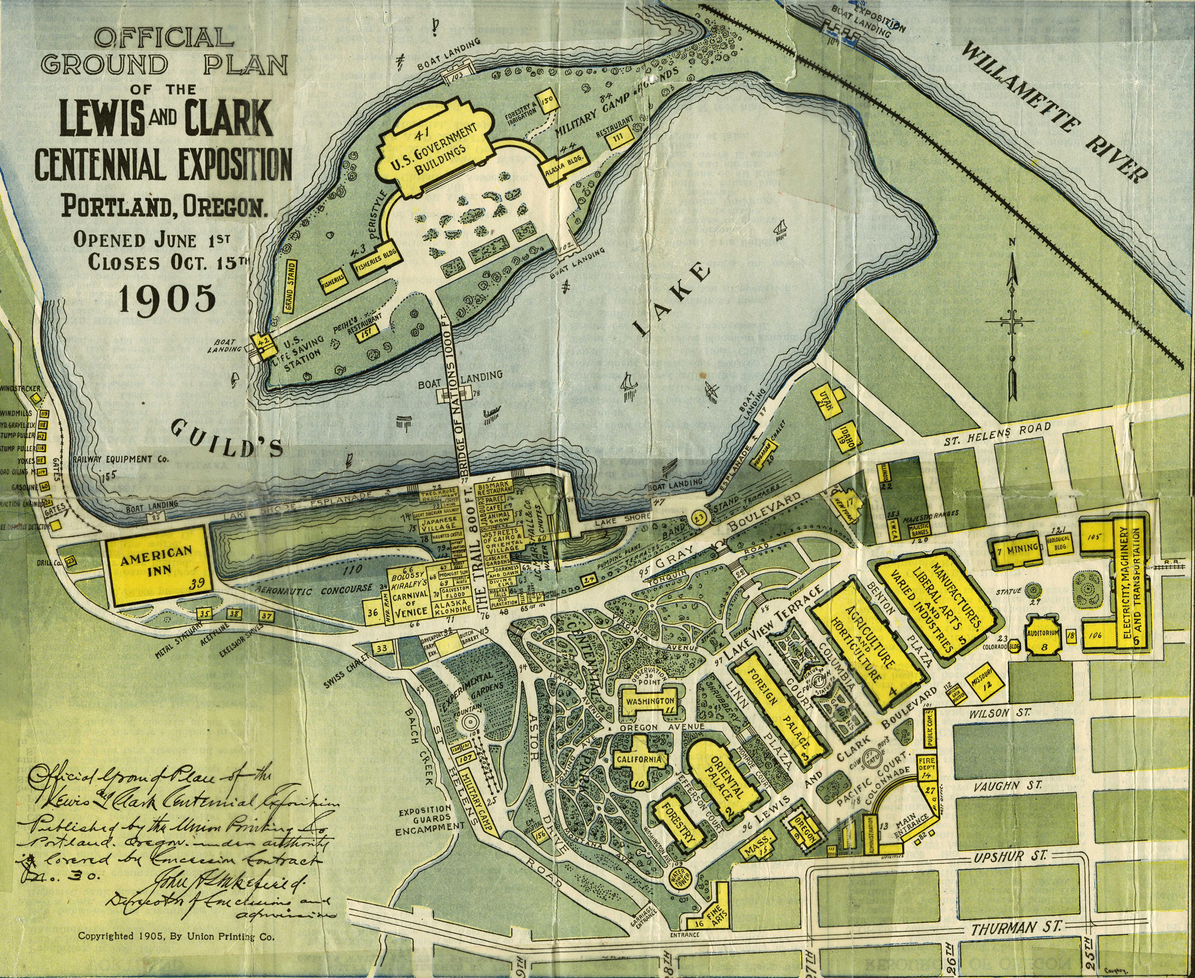
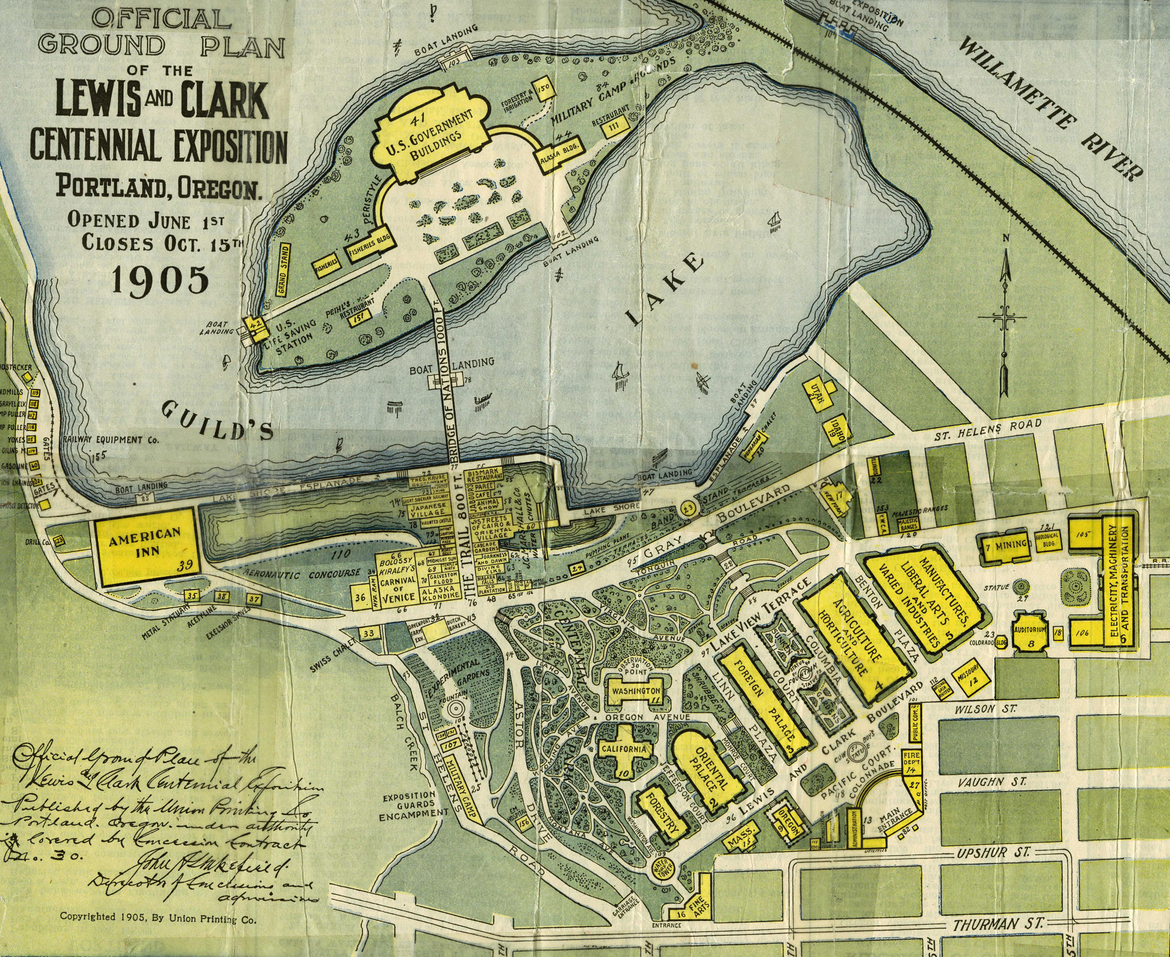
The official map was one degree off of true. Rotated it slightly to match the google map and then retrimmed it.

diff --git a/exposition/exposition.html b/exposition/exposition.html
@@ -31,7 +31,7 @@ function initMap() {
 
   var imageBounds = {
     north: 45.5446,
-    south: 45.5348,
+    south: 45.53505,
     east: -122.7013,
     west: -122.718444
   };
@@ -41,7 +41,7 @@ function initMap() {
   }
 
   historicalOverlay = new google.maps.GroundOverlay(
-      './official-map-trimmed.jpg',
+    './official-map-trimmed.jpg',
       imageBounds, overlayOpts);
   historicalOverlay.setMap(map);
 }
